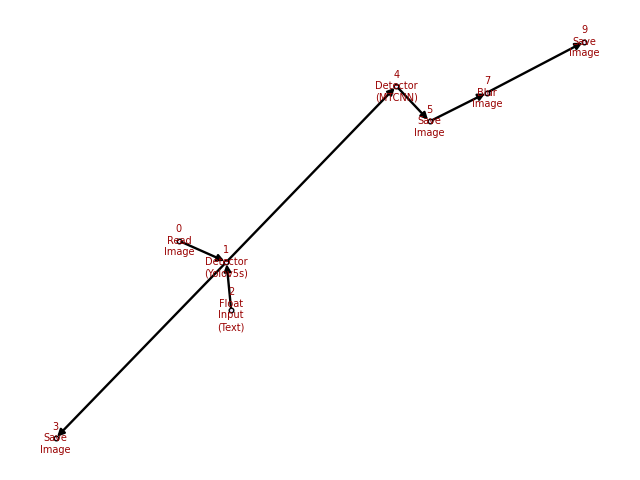
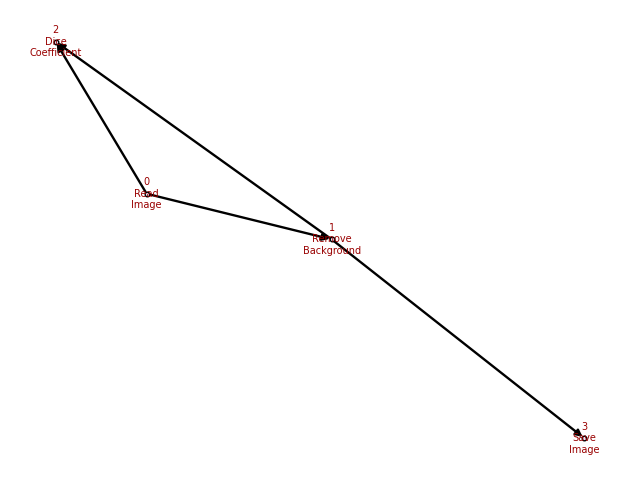
DSC

diff --git a/aia/main/no_gui_nodes/image/image_nodes.py b/aia/main/no_gui_nodes/image/image_nodes.py
@@ -2,6 +2,8 @@ from aia.NENV import *
 
 widgets = import_widgets(__file__)
 
+import requests
+import io
 from PIL import Image, ImageFilter
 
 class ImageNodeBase(Node):
@@ -61,26 +63,42 @@ class SaveImage(ImageNodeBase):
         return image
 
 
-# class ShowImage(ImageNodeBase):
-#     title = "Show Image"
+class RemoveBackground(ImageNodeBase):
+    title = "Remove Background"
+    api = 'https://118.69.190.178:5000/remove'
 
-#     def __init__(self, num_inp=1, num_out=1, title = title):
-#         super().__init__(num_inp, num_out, title)
+    def __init__(self, num_inp=1, num_out=1, title = title):
+        super().__init__(num_inp, num_out, title)
 
-#     def get_image(self):
-#         self.update_nodevalueinputs()
-#         input = self.get_nodevalueinputs(ind=0)
-#         if input:
-#             print(input)
-#             if 0 in input.keys():
-#                 image = input[0]
-#                 image.show()
-#             else:
-#                 image = self.default_image
-#         else:
-#             image = self.default_image
+    def get_image(self):
+        self.update_nodevalueinputs()
+        input = self.get_nodevalueinputs(ind=0)
+        if input:
+            if 0 in input.keys():
+                image = input[0]
+
+                img_byte_arr = io.BytesIO()
+                image.save(img_byte_arr, format='PNG')
+                img_byte_arr = img_byte_arr.getvalue()
+
+                files = {'file': img_byte_arr}
+
+                response = requests.post(__class__.api, files=files, timeout=9, verify=False) # 9 seconds
+                if response.status_code == 200:
+                    try:
+                        imageStream = io.BytesIO(response.content)
+                        image = Image.open(imageStream)
+                    except requests.exceptions.RequestException:
+                        print(response.text)
+                else:
+                    image = self.default_image
+            else:
+                image = self.default_image
+
+        else:
+            image = self.default_image
             
-#         return image
+        return image
 
 
 class BlurImage(ImageNodeBase):
@@ -111,7 +129,7 @@ class BlurImage(ImageNodeBase):
 export_nodes = [
     ReadImage,
     SaveImage,
-    # ShowImage,
+    RemoveBackground,
     BlurImage,
 
 ]

diff --git a/aia/main/no_gui_nodes/evaluation/evaluation_nodes.py b/aia/main/no_gui_nodes/evaluation/evaluation_nodes.py
@@ -1,0 +1,72 @@
+from aia.NENV import *
+
+widgets = import_widgets(__file__)
+
+import numpy as np
+
+class EvaluationNodeBase(Node):
+    path = "evaluation/evaluation_nodes"
+
+    def __init__(self, num_inp=2, num_out=1, title=''):
+        super().__init__(num_inp, num_out, title)
+    
+
+    def get_output(self):
+        return self.get_eval()
+
+    
+    def update_event(self):
+        self.output = self.get_output()
+        self.nodevalueoutput_[0] = self.output
+
+
+class DiceCoefficient(EvaluationNodeBase):
+    title = "Dice Coefficient"
+
+    def __init__(self, num_inp=2, num_out=1, title=''):
+        super().__init__(num_inp, num_out, title)
+        self.default_eval = -1
+        self.eval = self.default_eval
+
+    def get_eval(self):
+        self.update_nodevalueinputs()
+        input = self.get_nodevalueinputs(ind=-1)
+        if input:
+            if 0 in input.keys() and 1 in input.keys():
+                                
+                try:
+                    y_true_ = np.array(input[0][0])
+                    y_pred_ = np.array(input[1][0])
+                    y_true = y_true_[:, :, 3] # 4th channel
+                    y_pred = y_pred_[:, :, 3] # 4th channel
+                    y_true_shape = y_true.shape
+                    y_pred_shape = y_pred.shape
+                    if y_true_shape == y_pred_shape:
+                        count_similarity = 0
+                        for row in range(y_true_shape[0]):
+                            for col in range(y_true_shape[1]):
+                                count_similarity += 1 if y_true[row][col] == y_pred[row][col] else 0
+                        
+                        num_pixels = y_true_shape[0] * y_true_shape[1]
+                        self.eval = (1 + 2*count_similarity) / (1 + num_pixels)
+
+                    else:
+                        self.eval = self.default_eval
+                except:
+                    self.eval = self.default_eval
+            else:
+                self.eval = self.default_eval
+        else:
+            self.eval = self.default_eval
+        print(self.eval)
+        return self.eval
+
+
+        dscWidgets = widgets.DiceCoefficient()
+        print(dscWidgets.dsc)
+        return dscWidgets.dsc
+
+
+export_nodes = [
+    DiceCoefficient,
+]

diff --git a/aia/main/aia.py b/aia/main/aia.py
@@ -12,27 +12,28 @@ def run():
 
     coordinator = utils.Coordinator()
     coordinator.auto_loading()
-    # coordinator.load()
     
     """ Infinity Loop """
     while True:
         os.system('clear')
-        print("-oOo-             -oOo-            -oOo-")
+        print("-oOo-             -oOo-             -oOo-")
         print("TITLE:", coordinator.title)
         print("VERSION:", coordinator.version)
-        print("----------------------------------------")
+        print("-----------------------------------------")
         coordinator.display_no_gui_nodes()
-        print("----------------------------------------")
-        print("-oOo-       Registered Nodes       -oOo-")
+        print("-----------------------------------------")
+        print("-oOo-       Registered Nodes        -oOo-")
         coordinator.display_registered_nodes()
-        print("----------------------------------------")
-        print("-oOo-     Registered Directions    -oOo-")
+        print("-----------------------------------------")
+        print("-oOo-     Registered Directions     -oOo-")
         coordinator.display_arrows()
-        print("----------------------------------------")
-        print("-oOo-           Toposort           -oOo-")
+        print("-----------------------------------------")
+        print("-oOo-           Toposort            -oOo-")
         coordinator.display_order()
-        print("----------------------------------------")
+        print("-----------------------------------------")
         print("❤ ❤ ❤ ❤ ❤  Welcome to my world ❤ ❤ ❤ ❤ ❤")
+        print("save: Saving this project")
+        print("load: Loading a json file")
         print("0: Exit Program")
         print("1: Registering a new node")
         print("2: Registering a direction")

diff --git a/aia/main/utils.py b/aia/main/utils.py
@@ -159,7 +159,7 @@ class Coordinator:
         visited = []
 
         for arrow in self.arrows:
-            print("             ", arrow[0], '---->', arrow[1], 'at (', self.locations[(arrow[0], arrow[1])], ')')
+            print("          ", arrow[0], '---->', arrow[1], 'at (', self.locations[(arrow[0], arrow[1])], ')')
 
             u_gid = arrow[0]
             v_gid = arrow[1]
@@ -329,6 +329,7 @@ class Coordinator:
     
     def load(self):
         file_inp = self.__class__.my_file_io.get_file_inp()
+
         self.reset()
         tmp_no_gui_nodes = [] # temp of self.no_gui_nodes
         with open(file_inp) as json_file:

diff --git a/aia/main/no_gui_nodes/evaluation/widgets.py b/aia/main/no_gui_nodes/evaluation/widgets.py
@@ -1,0 +1,11 @@
+
+class DiceCoefficient:
+
+    def __init__(self):
+        self.dsc = 0.0
+
+    
+
+class export_widgets:
+    
+    DiceCoefficient = DiceCoefficient
